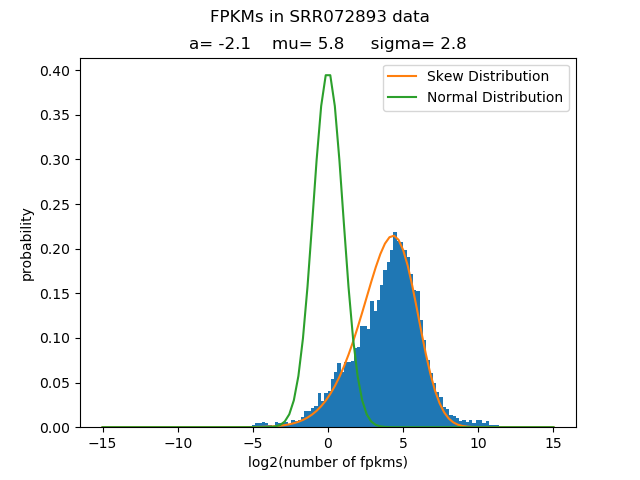
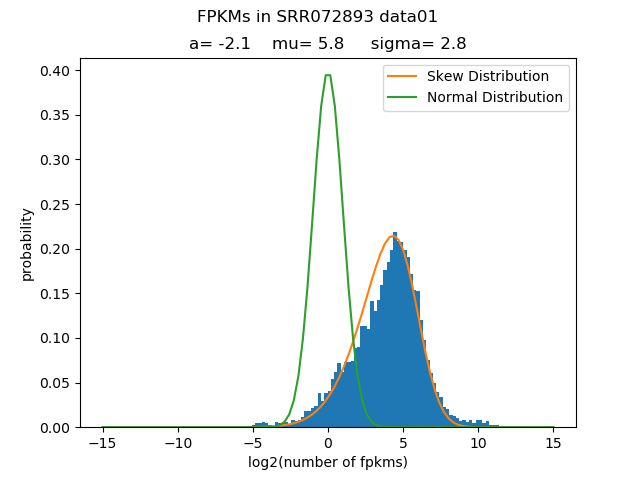
fixed lunch #1

Changed region(s): [[0.3125, 0.0, 0.6875, 0.0625]]

diff --git a/day4-lunch/01-hist-lunch.py b/day4-lunch/01-hist-lunch.py
@@ -23,9 +23,9 @@ for i, line in enumerate(open(sys.argv[1])):
 print(len(fpkms))    
 
 my_data= np.log2(fpkms)
-a= -2.1
-mu= 5.8
-sigma= 2.8
+a= float(sys.argv[2])
+mu= float(sys.argv[3])
+sigma= float(sys.argv[4])
 
 x= np.linspace(-15, 15, 100)
 y= stats.skewnorm.pdf(x, a, mu, sigma) 
@@ -41,7 +41,7 @@ ax.plot(x, y, label= "Skew Distribution")
 ax.plot(x1, y1, label= "Normal Distribution")
 ax.legend()
 
-fig.suptitle("FPKMs in SRR072893 data")
+fig.suptitle("FPKMs in SRR072893 data01 ")
 ax.set_title("a= -2.1    mu= 5.8     sigma= 2.8")
 ax.set_xlabel("log2(number of fpkms)")
 ax.set_ylabel("probability")
